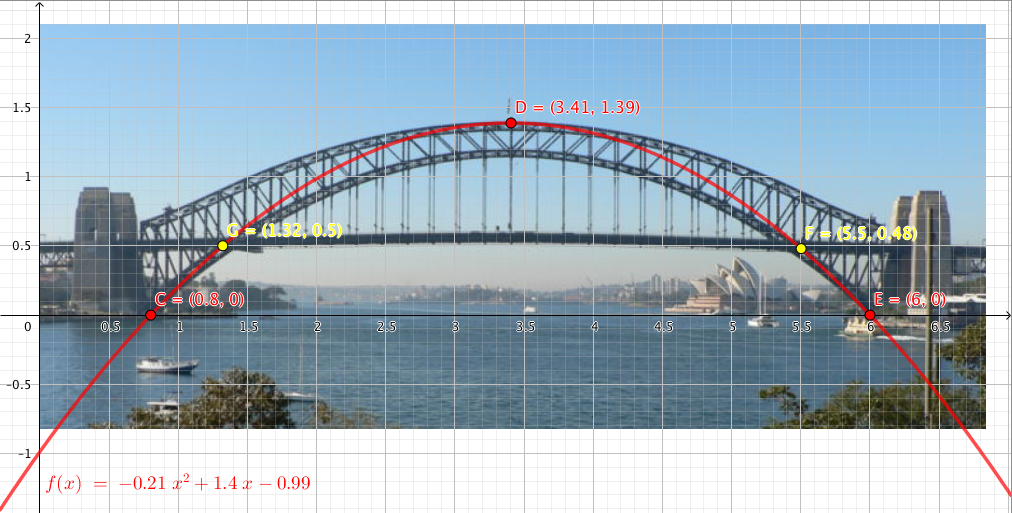
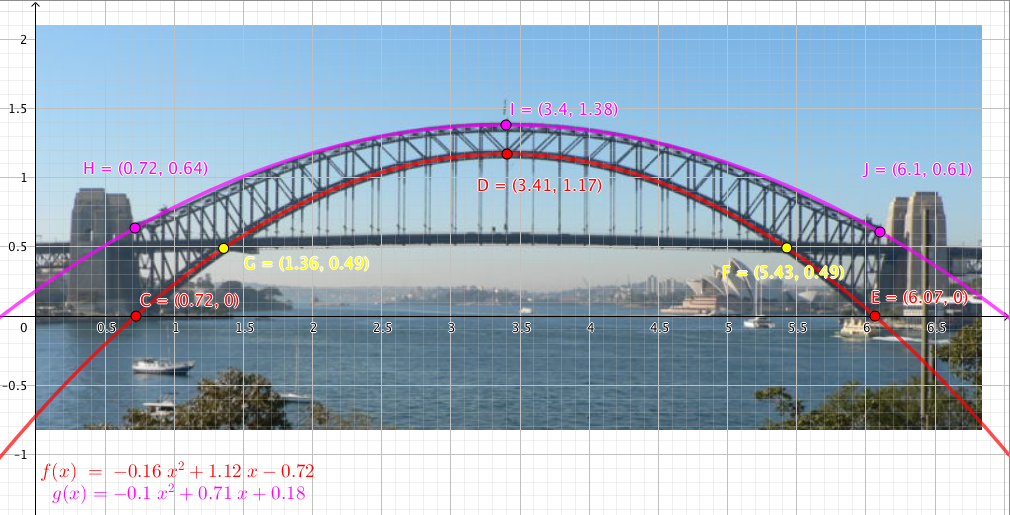
Muoks

Changed region(s): [[0.0, 0.0, 1.0, 1.0], [0.3069, 0.1871, 0.3376, 0.2183]]

diff --git a/kurssit/mab4/luku3/index.html b/kurssit/mab4/luku3/index.html
@@ -86,7 +86,7 @@ topnav: mab4
                         <h1>
                             <div class="checkbox-group"></div>
                             <a data-toggle="collapse" class="collapsed" data-target="#kolmio01">
-                                Mallin tulkintaa
+                                Mallin tulkinta
                             </a>
                         </h1>
                     </header>
@@ -129,6 +129,15 @@ topnav: mab4
                 </div>
             </div>
 
+            <div class="teoria">
+                <p>
+                    Edellisessä tehtävässä jääpeitteen laajuuden muuttumista mallinnettiin tutkimalla kahden eri ajanjakson keskiarvoja, jolloin pitkän aikavälin kehitys saatiin näkyviin vuosittaisesta vaihtelusta huolimatta.
+                </p>
+                <p>
+                    Seuraavassa tehtävässä mallinnetaan mallinnukseen käytetään toisen asteen polynomifunktiota. Niihin tutustuttiin kurssilla <a href="/kurssit/mab2/luku4/">MAB2</a>.
+                </p>
+            </div>
+
 
             <div class="tehtavat">
                 <div class="tehtava" id="56b70eed-20da-4ce2-9ee2-3f58241167bb">
@@ -136,7 +145,7 @@ topnav: mab4
                         <h1>
                             <div class="checkbox-group"></div>
                             <a data-toggle="collapse" class="collapsed" data-target="#kolmio01b">
-                                
+                                Mallin tulkinta
                             </a>
                         </h1>
                     </header>
